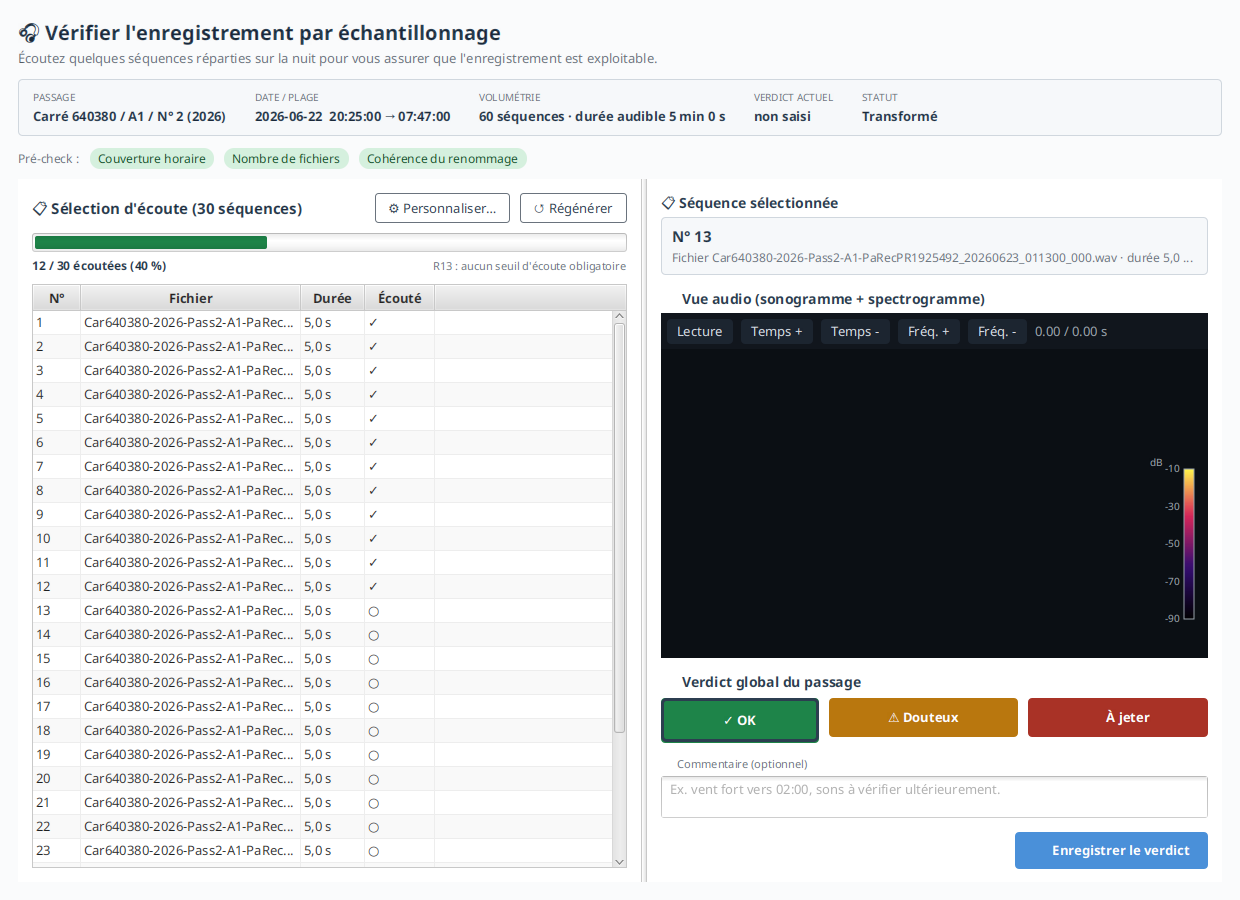
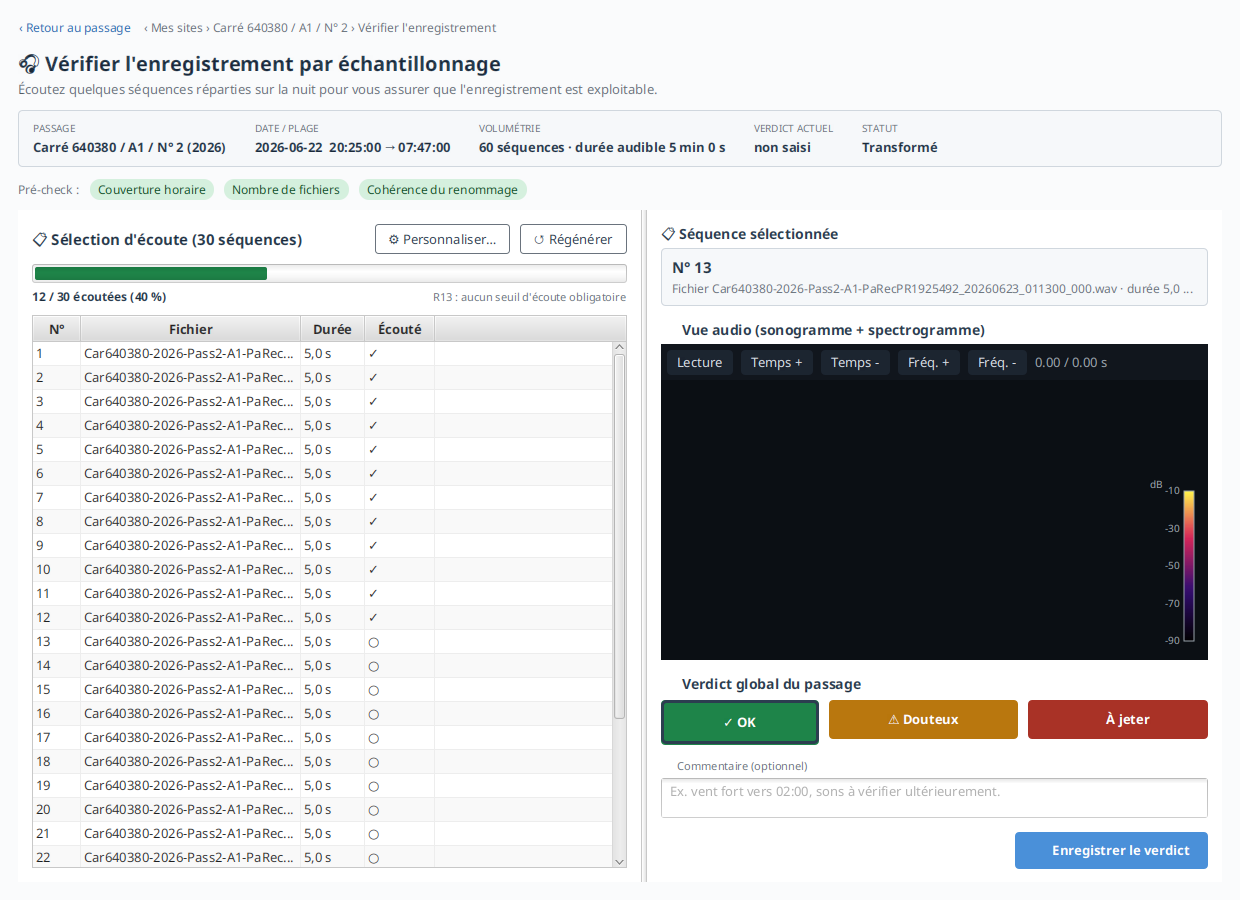
feat(qualification): fil d'Ariane + « Retour au passage » dans M-Qualification (#32)
L'entrée Sites→Passage→Vérifier (#40) était câblée mais M-Qualification
n'affichait pas son contexte de navigation. Ajout d'un fil d'Ariane
« ‹ Mes sites › Carré X / Point › N° K › Vérifier l'enregistrement »
(résolu par ServiceQualification via qualification→sites, déjà autorisé)
et d'un lien cliquable « ‹ Retour au passage » qui rouvre M-Passage via
le contrat socle OuvrirPassage (sans dépendre de passage.view). Le retour
à l'accueil est couvert par « 🏠 Accueil » (#22). ContexteVerification
porte désormais nomSite pour reconstruire le ContexteSite. Aperçu régénéré.

diff --git a/src/main/java/fr/univ_amu/iut/qualification/view/qualification.css b/src/main/java/fr/univ_amu/iut/qualification/view/qualification.css
@@ -22,6 +22,23 @@
   -fx-text-fill: #6a737d;
 }
 
+/* Fil d'Ariane (#32) : breadcrumb d'affichage + lien de retour cliquable vers M-Passage. */
+.fil-ariane {
+  -fx-font-size: 12px;
+  -fx-text-fill: #6a737d;
+}
+
+.lien-retour {
+  -fx-font-size: 12px;
+  -fx-text-fill: #2c6cb0;
+  -fx-border-color: transparent;
+  -fx-padding: 0 2 0 0;
+}
+
+.lien-retour:hover {
+  -fx-underline: true;
+}
+
 /* ---- Bandeau de rappel du passage ---- */
 .bandeau {
   -fx-padding: 10 14 10 14;

diff --git a/src/main/java/fr/univ_amu/iut/qualification/viewmodel/SelectionEcouteViewModel.java b/src/main/java/fr/univ_amu/iut/qualification/viewmodel/SelectionEcouteViewModel.java
@@ -1,6 +1,7 @@
 package fr.univ_amu.iut.qualification.viewmodel;
 
 import fr.univ_amu.iut.commun.model.MethodeSelection;
+import fr.univ_amu.iut.commun.viewmodel.ContexteSite;
 import fr.univ_amu.iut.commun.viewmodel.Formats;
 import fr.univ_amu.iut.qualification.model.ContexteVerification;
 import fr.univ_amu.iut.qualification.model.GenerateurSelection;
@@ -38,6 +39,7 @@ public class SelectionEcouteViewModel {
   private final ServiceQualification service;
   private Long idPassage;
   private Long idSelection;
+  private ContexteSite contexteSite;
 
   // Bandeau identité de la nuit (lecture seule, dérivé de ContexteVerification).
   private final ReadOnlyStringWrapper titreContexte =
@@ -46,6 +48,7 @@ public class SelectionEcouteViewModel {
       new ReadOnlyStringWrapper(this, "plageHoraire", "");
   private final ReadOnlyStringWrapper volumetrie =
       new ReadOnlyStringWrapper(this, "volumetrie", "");
+  private final ReadOnlyStringWrapper filAriane = new ReadOnlyStringWrapper(this, "filAriane", "");
 
   // Liste de la sélection + progression d'écoute + séquence courante.
   private final ObservableList<SequenceEnSelection> lignes = FXCollections.observableArrayList();
@@ -94,9 +97,11 @@ public class SelectionEcouteViewModel {
   /// est non-singleton, mais rien n'empêche une réouverture sur un autre passage).
   private void reinitialiser() {
     idSelection = null;
+    contexteSite = null;
     titreContexte.set("");
     plageHoraire.set("");
     volumetrie.set("");
+    filAriane.set("");
     sequenceCourante.set(null);
     lignes.clear();
     recalculerProgression();
@@ -141,21 +146,27 @@ public class SelectionEcouteViewModel {
   }
 
   private void appliquerContexte(ContexteVerification contexte) {
-    titreContexte.set(
-        "Carré "
-            + contexte.numeroCarre()
-            + " / "
-            + contexte.codePoint()
-            + " / N° "
-            + contexte.numeroPassage()
-            + " ("
-            + contexte.annee()
-            + ")");
+    String quadruplet = quadrupletLisible(contexte);
+    titreContexte.set(quadruplet + " (" + contexte.annee() + ")");
     plageHoraire.set(contexte.date() + "  " + contexte.heureDebut() + " → " + contexte.heureFin());
     volumetrie.set(
         contexte.sequencesTotales()
             + " séquences · durée audible "
             + Formats.dureeLisible(contexte.dureeAudibleSecondes()));
+    filAriane.set("‹ Mes sites › " + quadruplet + " › Vérifier l'enregistrement");
+    contexteSite =
+        new ContexteSite(contexte.numeroCarre(), contexte.codePoint(), contexte.nomSite());
+  }
+
+  /// Identité lisible du passage partagée par le bandeau et le fil d'Ariane : `Carré X / Point / N°
+  /// K`.
+  private static String quadrupletLisible(ContexteVerification contexte) {
+    return "Carré "
+        + contexte.numeroCarre()
+        + " / "
+        + contexte.codePoint()
+        + " / N° "
+        + contexte.numeroPassage();
   }
 
   private void majCheminCourant(SequenceEnSelection ligne) {
@@ -191,6 +202,18 @@ public class SelectionEcouteViewModel {
   /// Volumétrie de la nuit (`N séquences · durée audible Xh Ymin`).
   public ReadOnlyStringProperty volumetrieProperty() {
     return volumetrie.getReadOnlyProperty();
+  }
+
+  /// Fil d'Ariane affiché en tête : `‹ Mes sites › Carré X / Point › N° K › Vérifier
+  /// l'enregistrement`.
+  public ReadOnlyStringProperty filArianeProperty() {
+    return filAriane.getReadOnlyProperty();
+  }
+
+  /// Contexte site (carré, code point, nom) du passage courant, pour la navigation de retour vers
+  /// M-Passage. `null` tant qu'aucun passage n'est chargé.
+  public ContexteSite contexteSite() {
+    return contexteSite;
   }
 
   /// Liste observable de la sélection d'écoute (séquences retenues, ordonnées par position).

diff --git a/src/test/java/fr/univ_amu/iut/qualification/view/QualificationViewTest.java b/src/test/java/fr/univ_amu/iut/qualification/view/QualificationViewTest.java
@@ -12,6 +12,7 @@ import com.google.inject.Provides;
 import fr.nedjar.vigiechiro.audio.AudioView;
 import fr.univ_amu.iut.commun.model.MethodeSelection;
 import fr.univ_amu.iut.commun.model.StatutWorkflow;
+import fr.univ_amu.iut.commun.view.OuvrirPassage;
 import fr.univ_amu.iut.passage.model.SequenceDEcoute;
 import fr.univ_amu.iut.qualification.model.ContexteVerification;
 import fr.univ_amu.iut.qualification.model.PreCheckNuit;
@@ -62,6 +63,7 @@ class QualificationViewTest {
             new ContexteVerification(
                 "640380",
                 "A1",
+                "Étang de la Tuilière",
                 2,
                 2026,
                 "2026-06-22",
@@ -88,6 +90,11 @@ class QualificationViewTest {
               @Provides
               SelectionEcouteViewModel selection() {
                 return new SelectionEcouteViewModel(service);
+              }
+
+              @Provides
+              OuvrirPassage ouvrirPassage() {
+                return (id, contexte) -> {};
               }
             });
     FXMLLoader loader =
@@ -119,6 +126,18 @@ class QualificationViewTest {
 
     assertThat(titre.getText()).contains("640380").contains("A1");
     assertThat(table.getItems()).hasSize(3);
+  }
+
+  @Test
+  @DisplayName("Le fil d'Ariane affiche le chemin de navigation jusqu'à la vérification (#32)")
+  void affiche_le_fil_ariane(FxRobot robot) {
+    Label fil = robot.lookup("#lblFilAriane").queryAs(Label.class);
+
+    assertThat(fil.getText())
+        .contains("Mes sites")
+        .contains("640380")
+        .contains("A1")
+        .contains("Vérifier");
   }
 
   @Test

diff --git a/src/main/java/fr/univ_amu/iut/qualification/view/QualificationController.java b/src/main/java/fr/univ_amu/iut/qualification/view/QualificationController.java
@@ -5,6 +5,7 @@ import fr.nedjar.vigiechiro.audio.AudioView;
 import fr.univ_amu.iut.commun.model.MethodeSelection;
 import fr.univ_amu.iut.commun.model.StatutWorkflow;
 import fr.univ_amu.iut.commun.model.Verdict;
+import fr.univ_amu.iut.commun.view.OuvrirPassage;
 import fr.univ_amu.iut.qualification.model.GenerateurSelection;
 import fr.univ_amu.iut.qualification.model.PreCheckNuit;
 import fr.univ_amu.iut.qualification.model.SequenceEnSelection;
@@ -46,8 +47,11 @@ public class QualificationController {
 
   private final QualificationViewModel verdictVm;
   private final SelectionEcouteViewModel selectionVm;
+  private final OuvrirPassage ouvrirPassage;
+  private Long idPassage;
 
   @FXML private BorderPane racine;
+  @FXML private Label lblFilAriane;
   @FXML private Label lblTitreContexte;
   @FXML private Label lblPlageHoraire;
   @FXML private Label lblVolumetrie;
@@ -79,13 +83,17 @@ public class QualificationController {
 
   @Inject
   public QualificationController(
-      QualificationViewModel verdictVm, SelectionEcouteViewModel selectionVm) {
+      QualificationViewModel verdictVm,
+      SelectionEcouteViewModel selectionVm,
+      OuvrirPassage ouvrirPassage) {
     this.verdictVm = Objects.requireNonNull(verdictVm, "verdictVm");
     this.selectionVm = Objects.requireNonNull(selectionVm, "selectionVm");
+    this.ouvrirPassage = Objects.requireNonNull(ouvrirPassage, "ouvrirPassage");
   }
 
   @FXML
   private void initialize() {
+    lblFilAriane.textProperty().bind(selectionVm.filArianeProperty());
     // Bandeau : identité de la nuit (VM sélection) + statut/verdict persistés (VM verdict).
     lblTitreContexte.textProperty().bind(selectionVm.titreContexteProperty());
     lblPlageHoraire.textProperty().bind(selectionVm.plageHoraireProperty());
@@ -199,8 +207,16 @@ public class QualificationController {
   /// Ouvre l'écran sur le passage `idPassage` : les deux VM se synchronisent sur le même passage.
   /// Appelée par [NavigationQualification] après le chargement du FXML.
   public void ouvrirSur(Long idPassage) {
+    this.idPassage = idPassage;
     verdictVm.ouvrirSur(idPassage);
     selectionVm.ouvrirSur(idPassage);
+  }
+
+  /// « ‹ Retour au passage » du fil d'Ariane : rouvre M-Passage sur ce passage via le contrat socle
+  /// [OuvrirPassage], avec le contexte site résolu par le ViewModel (sans dépendre de `passage`).
+  @FXML
+  private void retourPassage() {
+    ouvrirPassage.ouvrir(idPassage, selectionVm.contexteSite());
   }
 
   @FXML

diff --git a/src/test/java/fr/univ_amu/iut/qualification/viewmodel/SelectionEcouteViewModelTest.java b/src/test/java/fr/univ_amu/iut/qualification/viewmodel/SelectionEcouteViewModelTest.java
@@ -10,6 +10,7 @@ import static org.mockito.Mockito.when;
 import fr.univ_amu.iut.commun.model.MethodeSelection;
 import fr.univ_amu.iut.commun.model.RegleMetierException;
 import fr.univ_amu.iut.commun.model.StatutWorkflow;
+import fr.univ_amu.iut.commun.viewmodel.ContexteSite;
 import fr.univ_amu.iut.passage.model.SequenceDEcoute;
 import fr.univ_amu.iut.qualification.model.ContexteVerification;
 import fr.univ_amu.iut.qualification.model.SelectionDEcoute;
@@ -48,6 +49,7 @@ class SelectionEcouteViewModelTest {
             new ContexteVerification(
                 "640380",
                 "A1",
+                "Étang de la Tuilière",
                 2,
                 2026,
                 "2026-06-22",
@@ -87,6 +89,12 @@ class SelectionEcouteViewModelTest {
     assertThat(viewModel.volumetrieProperty().get()).contains("20 séquences");
     assertThat(viewModel.lignes()).hasSize(20);
     assertThat(viewModel.messageProperty().get()).isEmpty();
+    assertThat(viewModel.filArianeProperty().get())
+        .contains("Mes sites")
+        .contains("640380")
+        .contains("Vérifier");
+    assertThat(viewModel.contexteSite())
+        .isEqualTo(new ContexteSite("640380", "A1", "Étang de la Tuilière"));
   }
 
   @Test
@@ -144,6 +152,7 @@ class SelectionEcouteViewModelTest {
             new ContexteVerification(
                 "640380",
                 "A1",
+                "Étang de la Tuilière",
                 2,
                 2026,
                 "2026-06-22",
@@ -168,6 +177,8 @@ class SelectionEcouteViewModelTest {
     assertThat(viewModel.lignes()).isEmpty();
     assertThat(viewModel.cheminSequenceCouranteProperty().get()).isNull();
     assertThat(viewModel.titreContexteProperty().get()).isEmpty();
+    assertThat(viewModel.filArianeProperty().get()).isEmpty();
+    assertThat(viewModel.contexteSite()).isNull();
     assertThat(viewModel.messageProperty().get()).contains("introuvable");
   }
 }

diff --git a/src/main/java/fr/univ_amu/iut/qualification/model/ServiceQualification.java b/src/main/java/fr/univ_amu/iut/qualification/model/ServiceQualification.java
@@ -199,10 +199,13 @@ public class ServiceQualification {
             .orElseThrow(() -> new RegleMetierException(PASSAGE_INTROUVABLE + idPassage));
     String numeroCarre = "?";
     String codePoint = "?";
+    String nomSite = "";
     Optional<PointDEcoute> point = pointDao.findById(passage.idPoint());
     if (point.isPresent()) {
       codePoint = point.get().code();
-      numeroCarre = siteDao.findById(point.get().idSite()).map(Site::numeroCarre).orElse("?");
+      Optional<Site> site = siteDao.findById(point.get().idSite());
+      numeroCarre = site.map(Site::numeroCarre).orElse("?");
+      nomSite = site.map(Site::nomConvivial).orElse("");
     }
     List<SequenceDEcoute> sequences =
         sessionDao
@@ -218,6 +221,7 @@ public class ServiceQualification {
     return new ContexteVerification(
         numeroCarre,
         codePoint,
+        nomSite,
         passage.numeroPassage(),
         passage.annee(),
         passage.dateEnregistrement(),

diff --git a/src/main/java/fr/univ_amu/iut/qualification/model/ContexteVerification.java b/src/main/java/fr/univ_amu/iut/qualification/model/ContexteVerification.java
@@ -12,6 +12,7 @@ import fr.univ_amu.iut.commun.model.Verdict;
 ///
 /// @param numeroCarre numéro de carré du site (6 chiffres), `?` si le site est introuvable
 /// @param codePoint code du point d'écoute (R2), `?` si le point est introuvable
+/// @param nomSite nom convivial du site (peut être vide), pour le contexte de navigation
 /// @param numeroPassage numéro du passage dans l'année
 /// @param annee année de campagne
 /// @param date date d'enregistrement (`AAAA-MM-JJ`)
@@ -24,6 +25,7 @@ import fr.univ_amu.iut.commun.model.Verdict;
 public record ContexteVerification(
     String numeroCarre,
     String codePoint,
+    String nomSite,
     int numeroPassage,
     int annee,
     String date,

diff --git a/src/main/java/fr/univ_amu/iut/qualification/outils/CaptureQualification.java b/src/main/java/fr/univ_amu/iut/qualification/outils/CaptureQualification.java
@@ -120,7 +120,7 @@ public final class CaptureQualification {
     loader.setControllerFactory(
         type ->
             type == QualificationController.class
-                ? new QualificationController(verdictVm, selectionVm)
+                ? new QualificationController(verdictVm, selectionVm, (id, contexte) -> {})
                 : injecteur.getInstance(type));
     Parent vue = loader.load();
     QualificationController controleur = loader.getController();

diff --git a/src/test/java/fr/univ_amu/iut/qualification/viewmodel/QualificationViewModelTest.java b/src/test/java/fr/univ_amu/iut/qualification/viewmodel/QualificationViewModelTest.java
@@ -46,6 +46,7 @@ class QualificationViewModelTest {
             new ContexteVerification(
                 "640380",
                 "A1",
+                "Étang de la Tuilière",
                 2,
                 2026,
                 "2026-06-22",